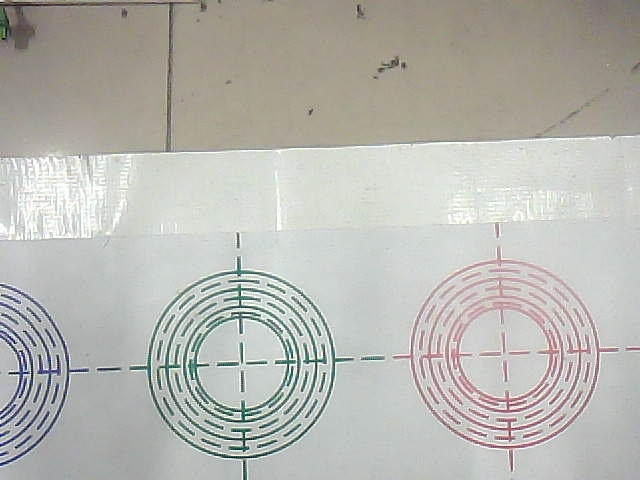
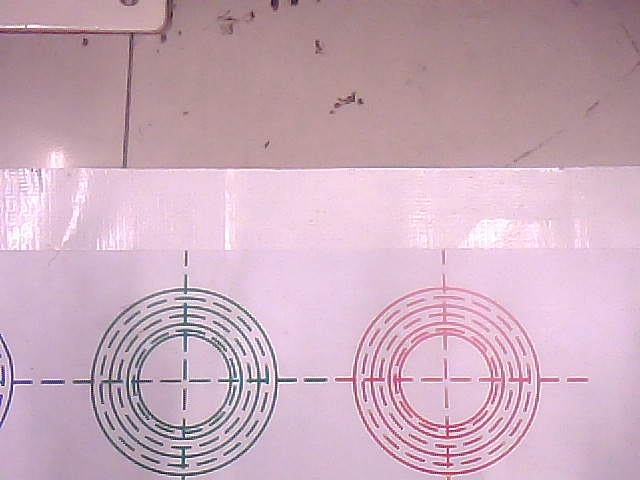
sn

diff --git a/script/threshold_abstract.py b/script/threshold_abstract.py
@@ -22,12 +22,13 @@ def Choose_Color():
     # img = cv2.resize(image0, (640, 480))
     img = cv2.resize(image0, (int(image0.shape[1] / 1), int(image0.shape[0] / 1)))
 
-    # img = precondition(img)
+    img = precondition(img)
 
     cv2.imshow("img_pyr", img)
     cv2.waitKey(0)
 
     img = cv2.cvtColor(img, cv2.COLOR_BGR2HSV)
+    img = cv2.erode(img, None, iterations=2)
     # img = image0
     '''
     目标：创建滑动条，把滑动条绑定到opencv窗口
